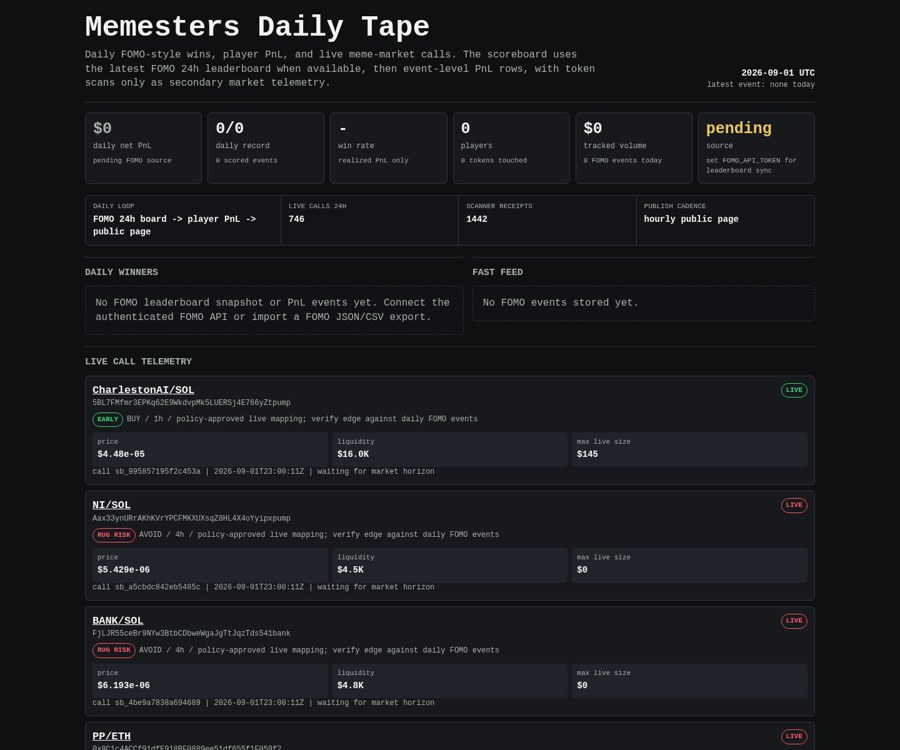
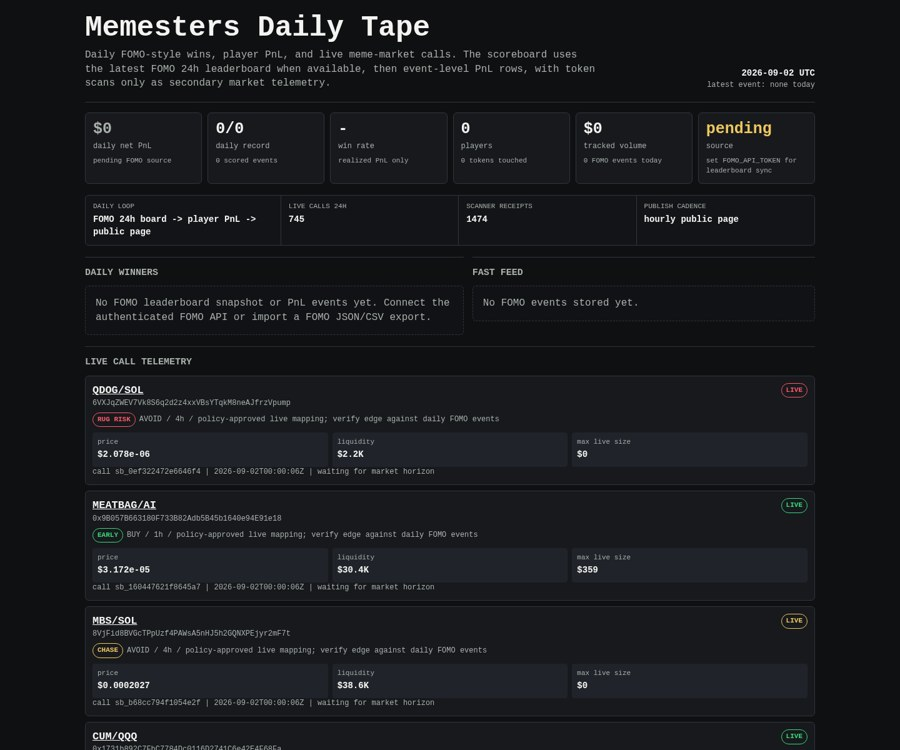
Update Memesters scoreboard

diff --git a/memesters/index.html b/memesters/index.html
@@ -135,7 +135,7 @@
         <h1>Memesters Daily Tape</h1>
         <p class="sub">Daily FOMO-style wins, player PnL, and live meme-market calls. The scoreboard uses the latest FOMO 24h leaderboard when available, then event-level PnL rows, with token scans only as secondary market telemetry.</p>
       </div>
-      <div class="stamp"><b>2026-09-01 UTC</b>latest event: none today</div>
+      <div class="stamp"><b>2026-09-02 UTC</b>latest event: none today</div>
     </header>
 
     <div class="metrics" aria-label="daily scoreboard totals">
@@ -149,8 +149,8 @@
 
     <div class="rail" aria-label="live operating loop">
       <div><span>daily loop</span><b>FOMO 24h board -> player PnL -> public page</b></div>
-      <div><span>live calls 24h</span><b>746</b></div>
-      <div><span>scanner receipts</span><b>1442</b></div>
+      <div><span>live calls 24h</span><b>745</b></div>
+      <div><span>scanner receipts</span><b>1474</b></div>
       <div><span>publish cadence</span><b>hourly public page</b></div>
     </div>
 
@@ -171,8 +171,29 @@
     <article class="receipt">
       <div class="receipt-head">
         <div>
-          <div class="pair"><a href="https://dexscreener.com/solana/3nggcuj3tq64shndx4ynyw6renzrxmjrgy9cvesbkxds">CharlestonAI/SOL</a></div>
-          <div class="addr">5BL7FMfmr3EPKq62E9WkdvpMk5LUERSj4E766yZtpump</div>
+          <div class="pair"><a href="https://dexscreener.com/solana/7q1yuzt3dnajpb4fgukyauclbdmnvuf1qpjygygqgdvp">QDOG/SOL</a></div>
+          <div class="addr">6VXJqZWEV7Vk8S6q2d2z4xxVBsYTqkM8neAJfrzVpump</div>
+          <div class="addr policy-line">
+            <span class="badge rug-risk">RUG RISK</span>
+            <span>AVOID / 4h / policy-approved live mapping; verify edge against daily FOMO events</span>
+          </div>
+        </div>
+        <span class="badge rug-risk">LIVE</span>
+      </div>
+      <div class="receipt-grid">
+        <div class="kv"><span>price</span><b>$2.078e-06</b></div>
+        <div class="kv"><span>liquidity</span><b>$2.2K</b></div>
+        <div class="kv"><span>max live size</span><b>$0</b></div>
+      </div>
+      <div class="outcomes">call sb_0ef322472e6646f4 | 2026-09-02T00:00:06Z | waiting for market horizon</div>
+    </article>
+    
+
+    <article class="receipt">
+      <div class="receipt-head">
+        <div>
+          <div class="pair"><a href="https://dexscreener.com/robinhood/0x32eed57d93bdf98ad9759210df482cce56c0ea493fd4592047e6da532da0082b">MEATBAG/AI</a></div>
+          <div class="addr">0x9B057B663180F733B82Adb5B45b1640e94E91e18</div>
           <div class="addr policy-line">
             <span class="badge early">EARLY</span>
             <span>BUY / 1h / policy-approved live mapping; verify edge against daily FOMO events</span>
@@ -181,82 +202,19 @@
         <span class="badge early">LIVE</span>
       </div>
       <div class="receipt-grid">
-        <div class="kv"><span>price</span><b>$4.48e-05</b></div>
-        <div class="kv"><span>liquidity</span><b>$16.0K</b></div>
-        <div class="kv"><span>max live size</span><b>$145</b></div>
+        <div class="kv"><span>price</span><b>$3.172e-05</b></div>
+        <div class="kv"><span>liquidity</span><b>$30.4K</b></div>
+        <div class="kv"><span>max live size</span><b>$359</b></div>
       </div>
-      <div class="outcomes">call sb_995857195f2c453a | 2026-09-01T23:00:11Z | waiting for market horizon</div>
+      <div class="outcomes">call sb_160447621f8645a7 | 2026-09-02T00:00:06Z | waiting for market horizon</div>
     </article>
     
 
     <article class="receipt">
       <div class="receipt-head">
         <div>
-          <div class="pair"><a href="https://dexscreener.com/solana/dj4py32xqfrebeehuidux3tau3wzm3egvwwrw5griqxd">NI/SOL</a></div>
-          <div class="addr">Aax33ynURrAKhKVrYPCFMKXUXsqZ8HL4X4oYyipxpump</div>
-          <div class="addr policy-line">
-            <span class="badge rug-risk">RUG RISK</span>
-            <span>AVOID / 4h / policy-approved live mapping; verify edge against daily FOMO events</span>
-          </div>
-        </div>
-        <span class="badge rug-risk">LIVE</span>
-      </div>
-      <div class="receipt-grid">
-        <div class="kv"><span>price</span><b>$5.429e-06</b></div>
-        <div class="kv"><span>liquidity</span><b>$4.5K</b></div>
-        <div class="kv"><span>max live size</span><b>$0</b></div>
-      </div>
-      <div class="outcomes">call sb_a5cbdc842eb5485c | 2026-09-01T23:00:11Z | waiting for market horizon</div>
-    </article>
-    
-
-    <article class="receipt">
-      <div class="receipt-head">
-        <div>
-          <div class="pair"><a href="https://dexscreener.com/solana/5z8a3nwdachagvtblgog2b1qtek1k4j3rzkhqvjdxnum">BANK/SOL</a></div>
-          <div class="addr">FjLJR55ceBr9NYw3BtbCDbweWgaJgTtJqzTds541bank</div>
-          <div class="addr policy-line">
-            <span class="badge rug-risk">RUG RISK</span>
-            <span>AVOID / 4h / policy-approved live mapping; verify edge against daily FOMO events</span>
-          </div>
-        </div>
-        <span class="badge rug-risk">LIVE</span>
-      </div>
-      <div class="receipt-grid">
-        <div class="kv"><span>price</span><b>$6.193e-06</b></div>
-        <div class="kv"><span>liquidity</span><b>$4.8K</b></div>
-        <div class="kv"><span>max live size</span><b>$0</b></div>
-      </div>
-      <div class="outcomes">call sb_4be9a7838a694689 | 2026-09-01T23:00:11Z | waiting for market horizon</div>
-    </article>
-    
-
-    <article class="receipt">
-      <div class="receipt-head">
-        <div>
-          <div class="pair"><a href="https://dexscreener.com/robinhood/0x336776618845aecf52361fb1dae997a8787ec7bbcfda15b6b178c884cc295087">PP/ETH</a></div>
-          <div class="addr">0x8C1c4ACCf91dfE918BF0889ee51df655f1F059f2</div>
-          <div class="addr policy-line">
-            <span class="badge rug-risk">RUG RISK</span>
-            <span>AVOID / 4h / policy-approved live mapping; verify edge against daily FOMO events</span>
-          </div>
-        </div>
-        <span class="badge rug-risk">LIVE</span>
-      </div>
-      <div class="receipt-grid">
-        <div class="kv"><span>price</span><b>$7.938e-06</b></div>
-        <div class="kv"><span>liquidity</span><b>$8.8K</b></div>
-        <div class="kv"><span>max live size</span><b>$0</b></div>
-      </div>
-      <div class="outcomes">call sb_d43e08cf4a434923 | 2026-09-01T23:00:11Z | waiting for market horizon</div>
-    </article>
-    
-
-    <article class="receipt">
-      <div class="receipt-head">
-        <div>
-          <div class="pair"><a href="https://dexscreener.com/robinhood/0x22c20955255d371aa6660a882fc7297d6c337dc30264e7290786110ee2ff390a">KIMCHI/SOFI</a></div>
-          <div class="addr">0x50142D76F2aea6f1D9FB35f7778e46BD2e1e1e18</div>
+          <div class="pair"><a href="https://dexscreener.com/solana/ckd8fmadhz56xymupxl6iefm5cacwe5tzqg9ta7daent">MBS/SOL</a></div>
+          <div class="addr">8VjFid8BVGcTPpUzf4PAWsA5nHJ5h2GQNXPEjyr2mF7t</div>
           <div class="addr policy-line">
             <span class="badge chase">CHASE</span>
             <span>AVOID / 4h / policy-approved live mapping; verify edge against daily FOMO events</span>
@@ -265,19 +223,124 @@
         <span class="badge chase">LIVE</span>
       </div>
       <div class="receipt-grid">
-        <div class="kv"><span>price</span><b>$5.724e-05</b></div>
-        <div class="kv"><span>liquidity</span><b>$48.6K</b></div>
+        <div class="kv"><span>price</span><b>$0.0002027</b></div>
+        <div class="kv"><span>liquidity</span><b>$38.6K</b></div>
         <div class="kv"><span>max live size</span><b>$0</b></div>
       </div>
-      <div class="outcomes">call sb_320b1615457c45f6 | 2026-09-01T23:00:11Z | waiting for market horizon</div>
+      <div class="outcomes">call sb_b68cc794f1054e2f | 2026-09-02T00:00:06Z | waiting for market horizon</div>
     </article>
     
 
     <article class="receipt">
       <div class="receipt-head">
         <div>
-          <div class="pair"><a href="https://dexscreener.com/solana/8t6ezarcclbfrtzvpiy1r7xquait8deyftxvdzmzmf5z">ASTEROID/SOL</a></div>
-          <div class="addr">GWv6PepmxgDy9qEXn3TDjLNuYxj9FAiuGbpEfsgupTwe</div>
+          <div class="pair"><a href="https://dexscreener.com/robinhood/0x92a47db18439811a6c58c8cb917d87d69ab22f240e527ebab7103aadabb5aed2">CUM/QQQ</a></div>
+          <div class="addr">0x1731b892C7FbC7784Dc0116D2741C6e42E4F68Fa</div>
+          <div class="addr policy-line">
+            <span class="badge early">EARLY</span>
+            <span>BUY / 1h / policy-approved live mapping; verify edge against daily FOMO events</span>
+          </div>
+        </div>
+        <span class="badge early">LIVE</span>
+      </div>
+      <div class="receipt-grid">
+        <div class="kv"><span>price</span><b>$6.464e-05</b></div>
+        <div class="kv"><span>liquidity</span><b>$20.8K</b></div>
+        <div class="kv"><span>max live size</span><b>$249</b></div>
+      </div>
+      <div class="outcomes">call sb_b21267fa02994c5a | 2026-09-02T00:00:06Z | waiting for market horizon</div>
+    </article>
+    
+
+    <article class="receipt">
+      <div class="receipt-head">
+        <div>
+          <div class="pair"><a href="https://dexscreener.com/robinhood/0x29a0ca6658af7ef4b03c96eb7479a3d2992d2ffc94005cbd70ca98795df0cee6">FARTCOIN/XOM</a></div>
+          <div class="addr">0x3E4F339beA31401e59f3F28959250FF9538c3901</div>
+          <div class="addr policy-line">
+            <span class="badge chase">CHASE</span>
+            <span>AVOID / 4h / policy-approved live mapping; verify edge against daily FOMO events</span>
+          </div>
+        </div>
+        <span class="badge chase">LIVE</span>
+      </div>
+      <div class="receipt-grid">
+        <div class="kv"><span>price</span><b>$2.145e-05</b></div>
+        <div class="kv"><span>liquidity</span><b>$15.3K</b></div>
+        <div class="kv"><span>max live size</span><b>$0</b></div>
+      </div>
+      <div class="outcomes">call sb_b0a21fc195ee492c | 2026-09-02T00:00:06Z | waiting for market horizon</div>
+    </article>
+    
+
+    <article class="receipt">
+      <div class="receipt-head">
+        <div>
+          <div class="pair"><a href="https://dexscreener.com/robinhood/0x7e30442a3d79c7284c1187641134b2b51960dae689dbed7514942a6816e434b0">DOSS/ETH</a></div>
+          <div class="addr">0x5614d5847687E4AC80B685D3Ad1E5eCC7da0D8Ae</div>
+          <div class="addr policy-line">
+            <span class="badge early">EARLY</span>
+            <span>BUY / 1h / policy-approved live mapping; verify edge against daily FOMO events</span>
+          </div>
+        </div>
+        <span class="badge early">LIVE</span>
+      </div>
+      <div class="receipt-grid">
+        <div class="kv"><span>price</span><b>$4.427e-05</b></div>
+        <div class="kv"><span>liquidity</span><b>$19.2K</b></div>
+        <div class="kv"><span>max live size</span><b>$230</b></div>
+      </div>
+      <div class="outcomes">call sb_46097da280eb44a8 | 2026-09-02T00:00:06Z | waiting for market horizon</div>
+    </article>
+    
+
+    <article class="receipt">
+      <div class="receipt-head">
+        <div>
+          <div class="pair"><a href="https://dexscreener.com/solana/8jp68n5zrzts3eeag7faszdupnqdp2hq9n4v9cuuth3g">JURIS/USDC</a></div>
+          <div class="addr">HmKUJLZGTyFbEUX5sDisr8PERHjJRyoAkgZwc2YsbeRr</div>
+          <div class="addr policy-line">
+            <span class="badge early">EARLY</span>
+            <span>BUY / 1h / policy-approved live mapping; verify edge against daily FOMO events</span>
+          </div>
+        </div>
+        <span class="badge early">LIVE</span>
+      </div>
+      <div class="receipt-grid">
+        <div class="kv"><span>price</span><b>$2.541e-06</b></div>
+        <div class="kv"><span>liquidity</span><b>$10.1K</b></div>
+        <div class="kv"><span>max live size</span><b>$25</b></div>
+      </div>
+      <div class="outcomes">call sb_14b119668dc8496f | 2026-09-02T00:00:06Z | waiting for market horizon</div>
+    </article>
+    
+
+    <article class="receipt">
+      <div class="receipt-head">
+        <div>
+          <div class="pair"><a href="https://dexscreener.com/robinhood/0x5789a8151291ceb93792a9fe16c90f8c1d44a758b13d1a8fe4bd48bf9c31d19b">NINJA/QQQ</a></div>
+          <div class="addr">0x57C09A6E007db9BaE23Ec4213f490033a7299e5E</div>
+          <div class="addr policy-line">
+            <span class="badge chase">CHASE</span>
+            <span>AVOID / 4h / policy-approved live mapping; verify edge against daily FOMO events</span>
+          </div>
+        </div>
+        <span class="badge chase">LIVE</span>
+      </div>
+      <div class="receipt-grid">
+        <div class="kv"><span>price</span><b>$0.0004596</b></div>
+        <div class="kv"><span>liquidity</span><b>$55.2K</b></div>
+        <div class="kv"><span>max live size</span><b>$0</b></div>
+      </div>
+      <div class="outcomes">call sb_48595ba67d8f438a | 2026-09-02T00:00:06Z | waiting for market horizon</div>
+    </article>
+    
+
+    <article class="receipt">
+      <div class="receipt-head">
+        <div>
+          <div class="pair"><a href="https://dexscreener.com/solana/dazhzztpcc57vxxuv915alztrj8kyqs6fvdaq7ssbuvm">HOUSE/SOL</a></div>
+          <div class="addr">9NAoXLKpTG9eEAa2dhbjA9qvx6PvjzeC3BYXt8nNpump</div>
           <div class="addr policy-line">
             <span class="badge rug-risk">RUG RISK</span>
             <span>AVOID / 4h / policy-approved live mapping; verify edge against daily FOMO events</span>
@@ -286,40 +349,19 @@
         <span class="badge rug-risk">LIVE</span>
       </div>
       <div class="receipt-grid">
-        <div class="kv"><span>price</span><b>$1.583e-05</b></div>
-        <div class="kv"><span>liquidity</span><b>$8.8K</b></div>
+        <div class="kv"><span>price</span><b>$5.6e-05</b></div>
+        <div class="kv"><span>liquidity</span><b>$18.8K</b></div>
         <div class="kv"><span>max live size</span><b>$0</b></div>
       </div>
-      <div class="outcomes">call sb_68742efed87b4ca6 | 2026-09-01T23:00:11Z | waiting for market horizon</div>
+      <div class="outcomes">call sb_e3f23b443cf14b98 | 2026-09-01T23:45:06Z | waiting for market horizon</div>
     </article>
     
 
     <article class="receipt">
       <div class="receipt-head">
         <div>
-          <div class="pair"><a href="https://dexscreener.com/solana/gmysiaufpi94j66n2xow1apscacssutcphxwwsicgezr">Elwyn/SOL</a></div>
-          <div class="addr">hDLzoWojPbEMJ6QukiConmqyvEaTUrjDVFmPYdapump</div>
-          <div class="addr policy-line">
-            <span class="badge rug-risk">RUG RISK</span>
-            <span>AVOID / 4h / policy-approved live mapping; verify edge against daily FOMO events</span>
-          </div>
-        </div>
-        <span class="badge rug-risk">LIVE</span>
-      </div>
-      <div class="receipt-grid">
-        <div class="kv"><span>price</span><b>$3.369e-06</b></div>
-        <div class="kv"><span>liquidity</span><b>$3.1K</b></div>
-        <div class="kv"><span>max live size</span><b>$0</b></div>
-      </div>
-      <div class="outcomes">call sb_dafd2e90b40f4c19 | 2026-09-01T23:00:11Z | waiting for market horizon</div>
-    </article>
-    
-
-    <article class="receipt">
-      <div class="receipt-head">
-        <div>
-          <div class="pair"><a href="https://dexscreener.com/robinhood/0xe11d3a207d4106d234e678f0991b7f2393c5c9ce58c668304b082c7fe29d47ab">AAPLDOG/AAPL</a></div>
-          <div class="addr">0x06e52E5fdDF0D8A6d10B963c753A8eF3E1161e18</div>
+          <div class="pair"><a href="https://dexscreener.com/solana/2jv9hvgv4u9lxwtnqsvdro75fynsdd66lzp7i7dr6e4p">Rubert/SOL</a></div>
+          <div class="addr">GEffekmuHN6fEFnH1GLLQGeBtsnyjC94vcc6hM9dpump</div>
           <div class="addr policy-line">
             <span class="badge chase">CHASE</span>
             <span>AVOID / 4h / policy-approved live mapping; verify edge against daily FOMO events</span>
@@ -328,53 +370,11 @@
         <span class="badge chase">LIVE</span>
       </div>
       <div class="receipt-grid">
-        <div class="kv"><span>price</span><b>$5.437e-05</b></div>
-        <div class="kv"><span>liquidity</span><b>$46.6K</b></div>
+        <div class="kv"><span>price</span><b>$0.0001701</b></div>
+        <div class="kv"><span>liquidity</span><b>$34.1K</b></div>
         <div class="kv"><span>max live size</span><b>$0</b></div>
       </div>
-      <div class="outcomes">call sb_aaf6efc35c354c9f | 2026-09-01T23:00:10Z | waiting for market horizon</div>
-    </article>
-    
-
-    <article class="receipt">
-      <div class="receipt-head">
-        <div>
-          <div class="pair"><a href="https://dexscreener.com/robinhood/0x9264f0d740eab13c8417baa0d27cedfb3ba63950e55a50e413678e7d55967635">GB/AMD</a></div>
-          <div class="addr">0xD78650f3A96e55e0710282c4f459AC556ef3517E</div>
-          <div class="addr policy-line">
-            <span class="badge chase">CHASE</span>
-            <span>AVOID / 4h / policy-approved live mapping; verify edge against daily FOMO events</span>
-          </div>
-        </div>
-        <span class="badge chase">LIVE</span>
-      </div>
-      <div class="receipt-grid">
-        <div class="kv"><span>price</span><b>$0.000278</b></div>
-        <div class="kv"><span>liquidity</span><b>$43.0K</b></div>
-        <div class="kv"><span>max live size</span><b>$0</b></div>
-      </div>
-      <div class="outcomes">call sb_1bc4ee16250b4ac8 | 2026-09-01T22:45:06Z | waiting for market horizon</div>
-    </article>
-    
-
-    <article class="receipt">
-      <div class="receipt-head">
-        <div>
-          <div class="pair"><a href="https://dexscreener.com/robinhood/0x17d3de73be4af493f64934652a60028f14d6a509d4d4c63f95b083f1cf4aa176">KOSPI/SKHY</a></div>
-          <div class="addr">0x15b07c4dCDDd0d4657559B4444b8408908b01e18</div>
-          <div class="addr policy-line">
-            <span class="badge chase">CHASE</span>
-            <span>AVOID / 4h / policy-approved live mapping; verify edge against daily FOMO events</span>
-          </div>
-        </div>
-        <span class="badge chase">LIVE</span>
-      </div>
-      <div class="receipt-grid">
-        <div class="kv"><span>price</span><b>$0.0001498</b></div>
-        <div class="kv"><span>liquidity</span><b>$98.2K</b></div>
-        <div class="kv"><span>max live size</span><b>$0</b></div>
-      </div>
-      <div class="outcomes">call sb_581d8c91b8d64397 | 2026-09-01T22:45:06Z | waiting for market horizon</div>
+      <div class="outcomes">call sb_4a78e8dfbc554415 | 2026-09-01T23:45:06Z | waiting for market horizon</div>
     </article>
     
     </section>
